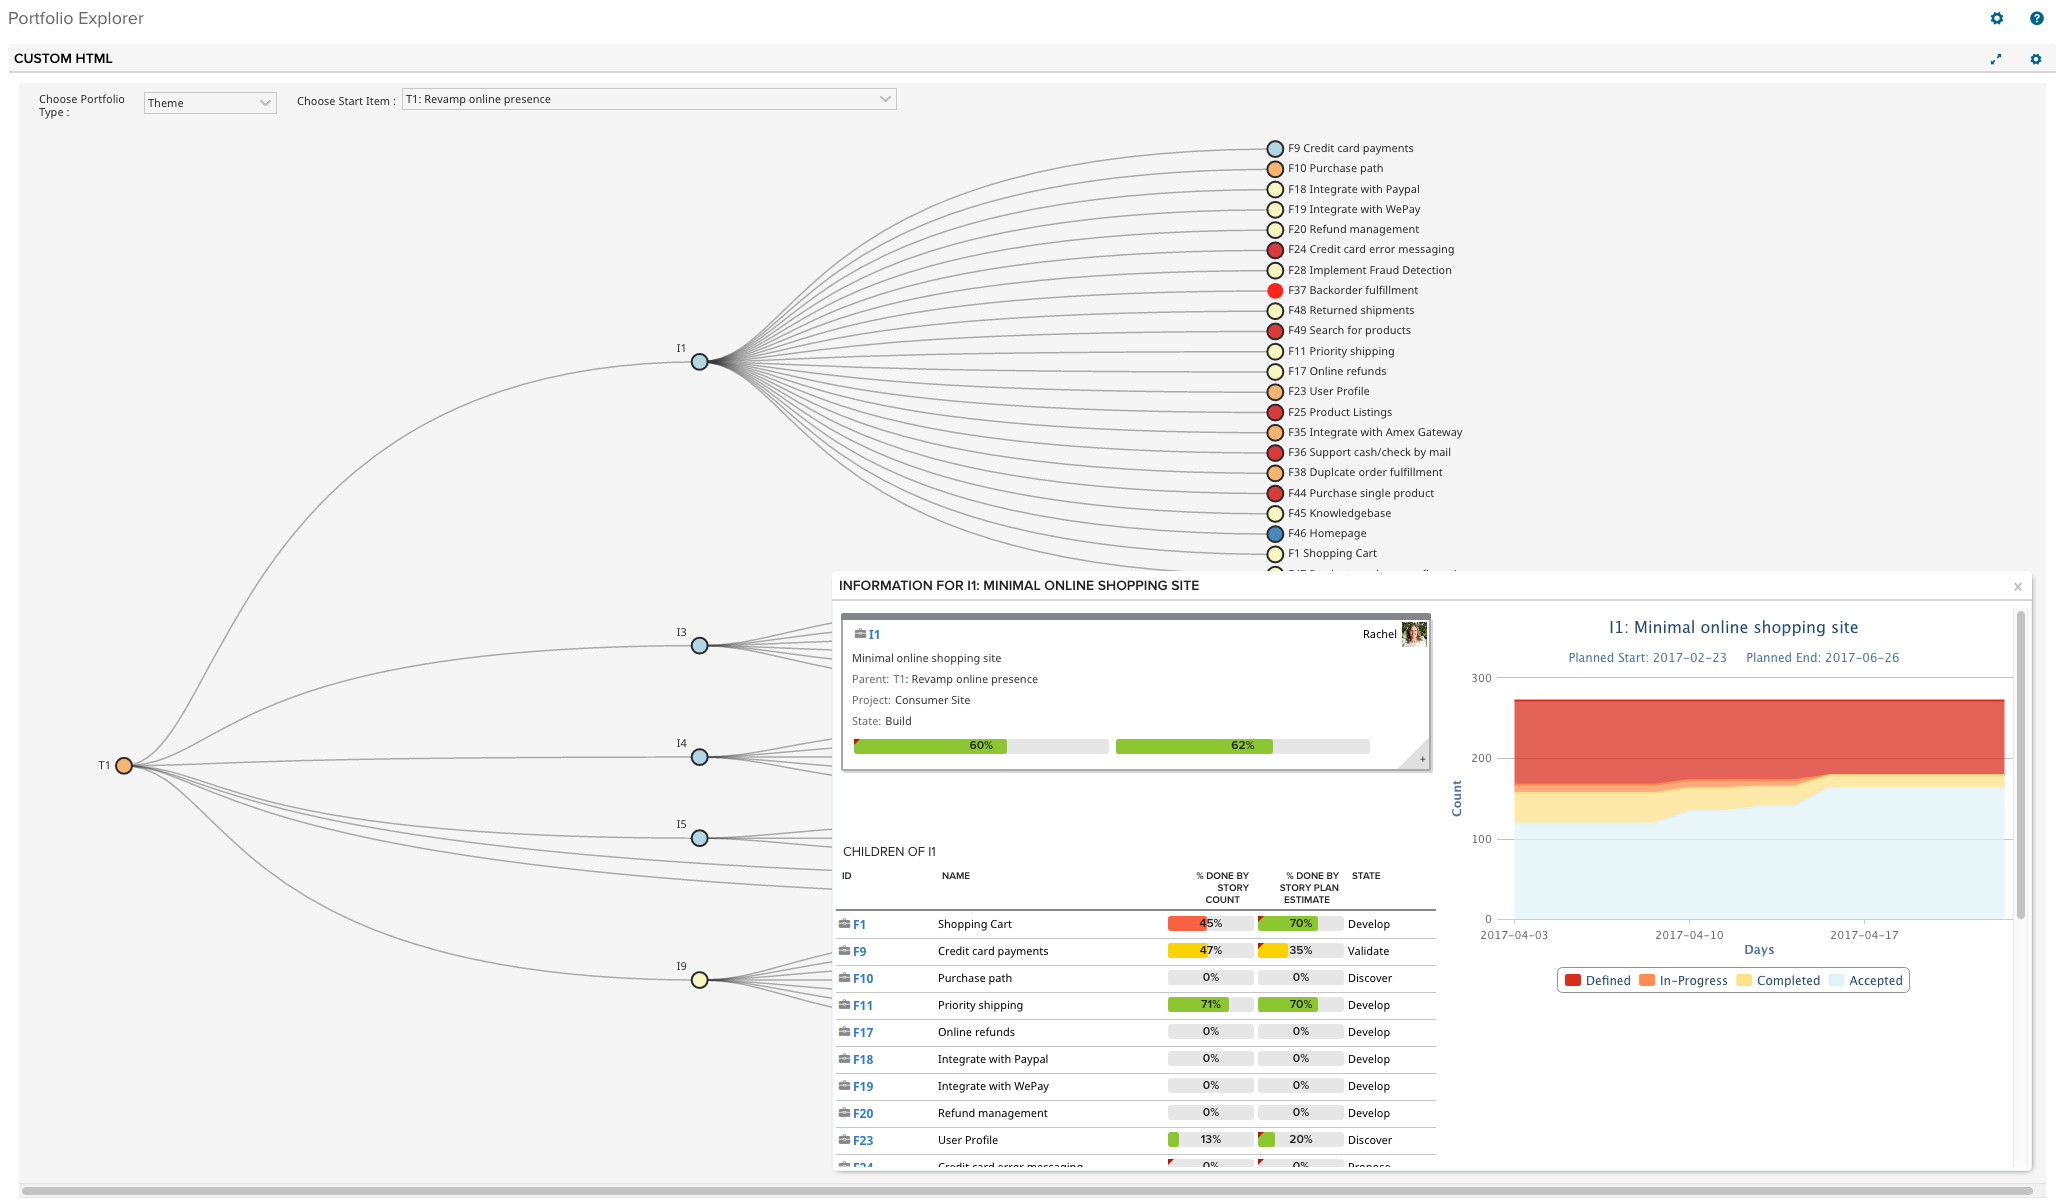
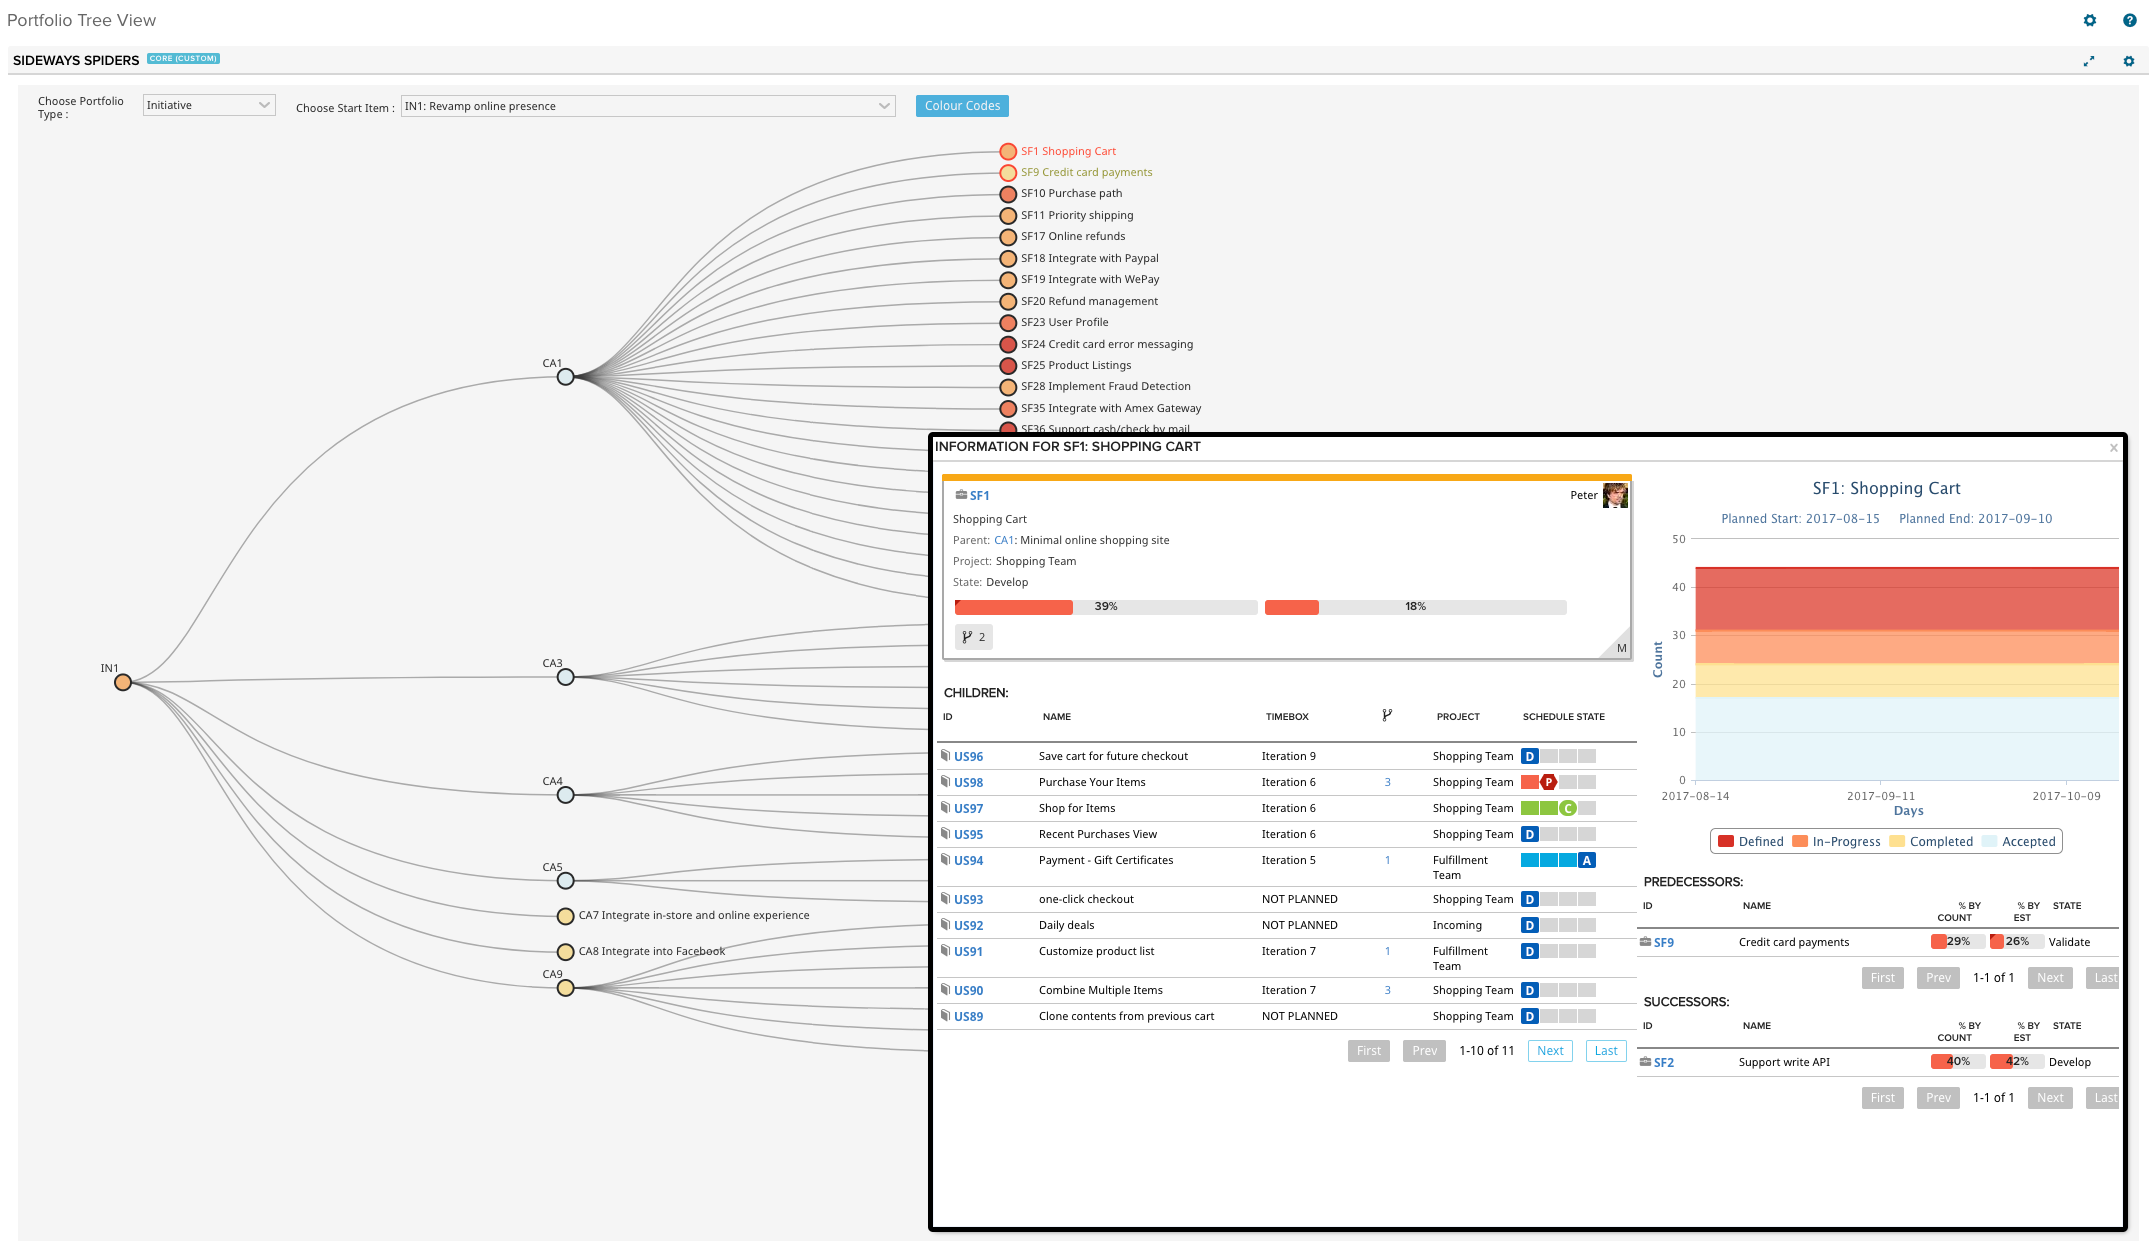
New image for the visual tweaks.

diff --git a/deploy/App-uncompressed.html b/deploy/App-uncompressed.html
@@ -522,7 +522,7 @@ Ext.define('Rally.apps.PortfolioItemTree.app', {
                                                 } else if (record.hasField('Release')) {
                                                     retval = record.get('Release')?record.get('Release').Name:'NOT PLANNED';
                                                 } else if (record.hasField('PlannedStartDate')){
-                                                    retval = Ext.Date.format(record.get('PlannedStartDate'), 'd/M/Y') + ' - ' + Ext.Date.format(record.get('PlannedEndDate'), 'd/M/Y')
+                                                    retval = Ext.Date.format(record.get('PlannedStartDate'), 'd/M/Y') + ' - ' + Ext.Date.format(record.get('PlannedEndDate'), 'd/M/Y');
                                                 }
                                             return (retval);
                                         }

diff --git a/README.md b/README.md
@@ -10,6 +10,10 @@ This app will allow you to select a type, then an item in your scope with that t
 If you hover over a particular dot, it will give you a 'rallycard' style pop-up. If you click on the dot, it gives you that card and then a list of the children associated with it. This works for all levels of portfolio item, so for features, 
 you will see the child user stories.
 
+The colour coding shows the 'state' of the item and the edge of the circle will be red if there are dependencies of either 
+type: successors or predecessors. The text of the item with be red for those with predecessors and a strnage green colour
+for those with successors
+
 The idea behind this is that you might want to set up a consistent view (via either the hover or via the pop-up) to explore the status graphically without loads of clicks.
 
 It could be extended to include user stories, but that was not really useful info for the top level managers.
